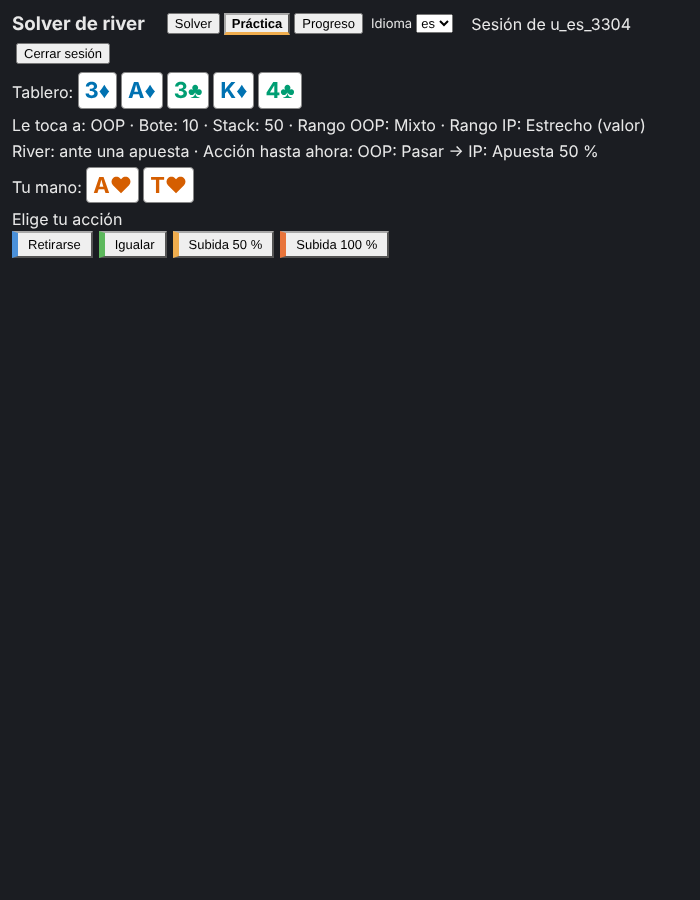
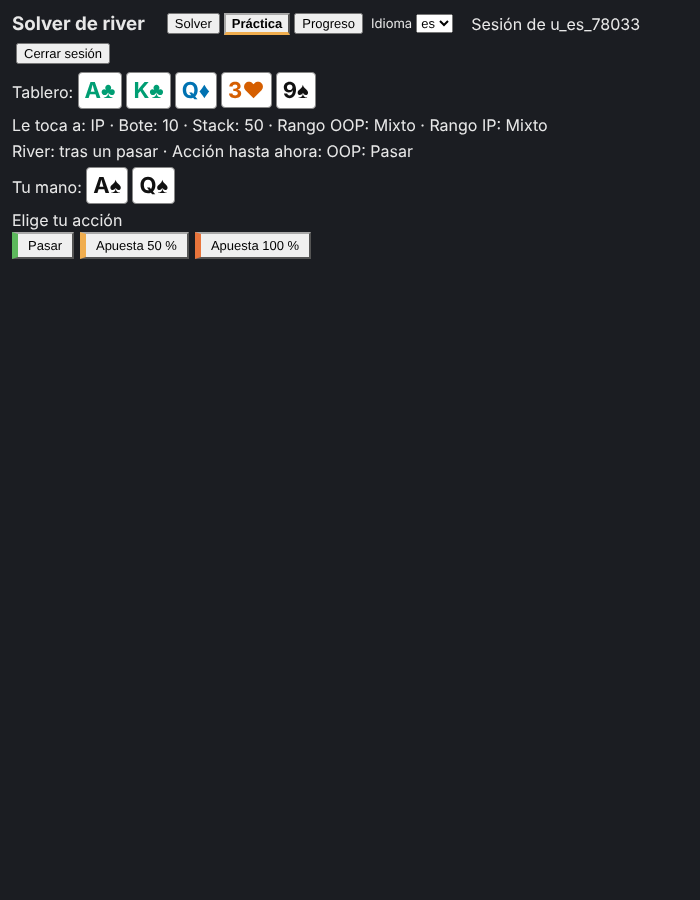
Turn drills in browser (small bet menu, cancel button); fix opp_mass on turn nodes so EV loss is correctly scaled
Claude-Session: https://claude.ai/code/session_01515mrjejBGv2Z99h5qqhGr

Changed region(s): [[0.0, 0.0622, 0.93, 0.3111], [0.84, 0.0, 0.9, 0.0311]]

diff --git a/web/src/main.ts b/web/src/main.ts
@@ -1,7 +1,7 @@
 import { t, fmt, locales, type Lang, type Key } from './i18n';
 import { parseRange, presets, R } from './ranges';
 import { api, ApiError, type Progress } from './api';
-import { combos, comboName, cardName, randomBoard, freqsFor, evLossPct, isCorrect, spotId, samplePath, nodeType, isFacing, type Step, type NodeType, SUITS, RANKS } from './drill';
+import { combos, comboName, cardName, randomBoard, freqsFor, evLossPct, isCorrect, spotId, samplePath, type Street, nodeType, isFacing, type Step, type NodeType, SUITS, RANKS } from './drill';
 
 // Bet sizes sent to the engine; labels derive from these (NodeView has no size info, so this assumes none are merged/dropped, e.g. at all-in).
 const sizes = [0.5, 1];
@@ -16,7 +16,7 @@ let user: string | null = null;
 let authErr = '';
 let progress: Progress | 'loading' | null = null;
 const drill = { phase: 'idle' as 'idle' | 'solving' | 'ask' | 'reveal', board: '', oop: '', ip: '', view: null as View | null, h: 0,
-  path: [] as number[], steps: [] as Step[], freqs: [] as number[], chosen: -1, evLoss: 0, t0: 0, correct: 0, total: 0, saveErr: '' };
+  path: [] as number[], steps: [] as Step[], freqs: [] as number[], chosen: -1, evLoss: 0, street: 'river' as Street, solveT0: 0, solveMs: 0, t0: 0, correct: 0, total: 0, saveErr: '' };
 
 let lang: Lang = (new URLSearchParams(location.search).get('lang') as Lang) in locales
   ? (new URLSearchParams(location.search).get('lang') as Lang) : 'en';
@@ -32,9 +32,9 @@ const form = { board: 'As Kd 7c 4h 2s', pot: 10, stack: 50, oop: 'mixed', ip: 'm
 const worker = new Worker(new URL('./worker.ts', import.meta.url), { type: 'module' });
 worker.onmessage = (e) => {
   const m = e.data;
-  if (m.type === 'progress') { expl = m.expl; iters = m.iters; if (owner === 'solver') { if (!view) query([]); renderStatus(); } }
+  if (m.type === 'progress') { expl = m.expl; iters = m.iters; if (owner === 'drill') renderDrillStatus(); if (owner === 'solver') { if (!view) query([]); renderStatus(); } }
   else if (m.type === 'done') {
-    if (owner === 'drill') { dealNode(); return; }
+    if (owner === 'drill') { drill.solveMs = Date.now() - drill.solveT0; console.log('drill solve ms', drill.solveMs, drill.street, 'expl', m.expl, 'iters', m.iters); dealNode(); return; }
     solving = false; expl = m.expl; iters = m.iters; query(path); render();
   }
   else if (m.type === 'node') {
@@ -151,19 +151,28 @@ const parseBoard = (b: string) => b.split(' ').map((x) => (RANKS.indexOf(x[0]) *
 function startDrill() {
   const ids = Object.keys(presets);
   const pick = () => ids[Math.floor(Math.random() * ids.length)];
-  Object.assign(drill, { phase: 'solving', board: randomBoard(), oop: pick(), ip: pick(), view: null, saveErr: '' });
-  owner = 'drill'; solving = false; err = '';
+  const turn = drill.street === 'turn';
+  Object.assign(drill, { phase: 'solving', board: randomBoard(Math.random, undefined, turn ? 4 : 5), oop: pick(), ip: pick(), view: null, saveErr: '', solveT0: Date.now() });
+  owner = 'drill'; solving = false; err = ''; expl = null; iters = 0;
+  // Turn: small menu (turn 50%/100% with no re-raise, river 50%) so the solve stays a few seconds; river drills unchanged.
+  const streets = turn ? [{ pot: DRILL.pot, stack: DRILL.stack, sizes, raise_cap: 1 }, { pot: DRILL.pot, stack: DRILL.stack, sizes: [0.5], raise_cap: 1 }]
+    : [{ pot: DRILL.pot, stack: DRILL.stack, sizes, raise_cap: 2 }];
   worker.postMessage({ type: 'solve', config: JSON.stringify({
     board: drill.board,
     ranges: [parseRange(presets[drill.oop]), parseRange(presets[drill.ip])],
-    streets: [{ pot: DRILL.pot, stack: DRILL.stack, sizes, raise_cap: 2 }],
+    streets,
     budget_mb: 1024,
-  }), chunk: 20, target: 0.3, maxIters: 2000 });
+  }), chunk: turn ? 10 : 20, target: 0.3, maxIters: turn ? 300 : 2000 });
   render();
 }
 
+function renderDrillStatus() {
+  const el = document.getElementById('drill-status');
+  if (el && expl !== null) el.innerHTML = `<b>${tr('exploitability')}:</b> <span id="drill-expl" data-value="${expl}">${fmt(expl / 100, lang, { style: 'percent', minimumFractionDigits: 2, maximumFractionDigits: 2 })} ${tr('pot')}</span> · ${tr('iterations', { count: iters })}`;
+}
+
 async function dealNode() {
-  const s = await samplePath(queryAsync, parseBoard(drill.board));
+  const s = await samplePath(queryAsync, parseBoard(drill.board)); // stops at chance nodes: turn drills never leave the turn street
   Object.assign(drill, { view: s.view, h: s.h, path: s.path, steps: s.steps, phase: 'ask', t0: Date.now() });
   if (screen === 'drill') render();
 }
@@ -182,7 +191,7 @@ function answer(i: number) {
   drill.total++; if (isCorrect(drill.freqs, i)) drill.correct++;
   drill.phase = 'reveal'; drill.saveErr = '';
   render();
-  api.postResult({ spotId: spotId(drill.board, drill.oop, drill.ip, nodeType(drill.steps), drill.path), hero: v.player, handCombo: comboName(drill.h), action: i,
+  api.postResult({ spotId: spotId(drill.board, drill.oop, drill.ip, nodeType(drill.steps), drill.path, drill.street), hero: v.player, handCombo: comboName(drill.h), action: i,
     solverFreqs: drill.freqs, evLoss: drill.evLoss, ms, lang }).catch((e) => {
     if (e instanceof ApiError && e.status === 401) { handleApiErr(e); return; }
     drill.saveErr = errText(codeOf(e)); const el = document.getElementById('save-err'); if (el) el.textContent = drill.saveErr;
@@ -194,15 +203,26 @@ function renderDrill() {
   const el = $('screen');
   const sessionLine = () => drill.total
     ? `<div id="session" data-correct="${drill.correct}" data-total="${drill.total}">${tr('drill.session', { correct: drill.correct, total: drill.total, pct: fmt(drill.correct / drill.total, lang, { style: 'percent' }) })}</div>` : '';
-  if (drill.phase === 'idle') { el.innerHTML = `<button id="start" class="a">${tr('drill.start')}</button>${sessionLine()}<div class="err">${err ? tr('error', { message: err }) : ''}</div>`; $('start').onclick = startDrill; return; }
-  if (drill.phase === 'solving') { el.innerHTML = `<p id="drill-solving">${tr('drill.solving')}</p>${sessionLine()}`; return; }
+  if (drill.phase === 'idle') {
+    el.innerHTML = `<label>${tr('drill.street')}<select id="street">${(['river', 'turn'] as const).map((s) => `<option value="${s}" ${s === drill.street ? 'selected' : ''}>${tr(('street.' + s) as Key)}</option>`).join('')}</select></label>
+      <button id="start" class="a">${tr('drill.start')}</button>${sessionLine()}<div class="err">${err ? tr('error', { message: err }) : ''}</div>`;
+    $('start').onclick = startDrill;
+    $<HTMLSelectElement>('street').onchange = (e) => { drill.street = (e.target as HTMLSelectElement).value as Street; };
+    return;
+  }
+  if (drill.phase === 'solving') {
+    el.innerHTML = `<p id="drill-solving">${tr('drill.solving')}</p><div id="drill-status"></div><button id="cancel" class="a">${tr('drill.cancel')}</button>${sessionLine()}`;
+    $('cancel').onclick = () => { worker.postMessage({ type: 'cancel' }); drill.phase = 'idle'; render(); };
+    renderDrillStatus();
+    return;
+  }
   const v = drill.view!;
   const [c1, c2] = combos[drill.h];
   const as = actions(v, isFacing(drill.steps));
   const nt = nodeType(drill.steps);
   const head = `<div>${tr('board')}: <span id="board-cards">${parseBoard(drill.board).map(cardHtml).join('')}</span></div>
     <div style="margin:6px 0">${tr('toAct', { player: tr(('player.' + v.player) as Key) })} · ${tr('pot')}: ${fmt(DRILL.pot, lang)} · ${tr('stack')}: ${fmt(DRILL.stack, lang)} · ${tr('oop')}: ${tr(('preset.' + drill.oop) as Key)} · ${tr('ip')}: ${tr(('preset.' + drill.ip) as Key)}</div>
-    <div id="history" data-node="${nt}" data-depth="${drill.steps.length}" style="margin:6px 0">${tr(('progress.spot.river:' + nt) as Key)} · ${tr('drill.history')}: ${drill.steps.length ? drill.steps.map(stepLabel).join(' → ') : tr('drill.noHistory')}</div>
+    <div id="history" data-street="${drill.street}" data-solve-ms="${drill.solveMs}" data-node="${nt}" data-depth="${drill.steps.length}" style="margin:6px 0">${tr(('progress.spot.' + drill.street + ':' + nt) as Key)} · ${tr('drill.history')}: ${drill.steps.length ? drill.steps.map(stepLabel).join(' → ') : tr('drill.noHistory')}</div>
     <div style="margin:6px 0">${tr('drill.yourHand')}: <span id="hand" data-combo="${comboName(drill.h)}">${[c2, c1].sort((a, b) => (b >> 2) - (a >> 2)).map(cardHtml).join('')}</span></div>`;
   if (drill.phase === 'ask') {
     el.innerHTML = `${head}<div>${tr('drill.choose')}</div><div id="acts">${as.map((a, i) => `<button class="a" data-a="${i}" style="border-left:6px solid ${a.color}">${tr(a.key, a.vars)}</button>`).join('')}</div>${sessionLine()}`;

diff --git a/web/tests/drill.test.ts b/web/tests/drill.test.ts
@@ -123,3 +123,35 @@ test('real engine: sampled non-root nodes are valid and consistent', async () =>
   console.log('node types sampled:', [...types]);
   expect(types.size).toBeGreaterThan(1);
 });
+
+test('turn: 4-card boards and turn spot ids', () => {
+  for (let i = 0; i < 50; i++) expect(new Set(randomBoard(Math.random, undefined, 4).split(' ')).size).toBe(4);
+  expect(spotId('As Kd 7c 4h', 'a', 'b', 'root', [], 'turn')).toBe('turn:root:AsKd7c4h:a-b:root');
+});
+
+test('real engine turn tree: sampler stops at chance nodes, never passes through the river card, masks board', async () => {
+  await init({ module_or_path: readFileSync(new URL('../src/wasm/gto_wasm_bg.wasm', import.meta.url)) });
+  const s = new Solver(JSON.stringify({ board: 'As Kd 7c 4h', ranges: [parseRange(presets.mixed), parseRange(presets.mixed)],
+    streets: [{ pot: 10, stack: 50, sizes: [0.5, 1], raise_cap: 1 }, { pot: 10, stack: 50, sizes: [0.5], raise_cap: 1 }], budget_mb: 1024 }));
+  s.step(30);
+  const kinds: string[] = [];
+  const q = async (p: number[]) => { const v = JSON.parse(s.query(JSON.stringify(p))); kinds.push(v.kind); return v; };
+  expect(JSON.parse(s.query('[0,0]')).kind).toBe('chance'); // check-check deals the river
+  const board = [51, 46, 21, 14];
+  const rng = lcg(21), types = new Set<string>();
+  for (let i = 0; i < 80; i++) {
+    const r = await samplePath(q, board, rng, 0.3);
+    types.add(nodeType(r.steps));
+    expect(r.view.kind).toBe('action');
+    expect(r.path.length).toBe(r.steps.length); // only action indices: no card id, so no river street
+    // every prefix of the path is an action node (a chance node would mean the walk crossed into the river)
+    for (let d = 0; d < r.path.length; d++) expect(JSON.parse(s.query(JSON.stringify(r.path.slice(0, d + 1)))).kind === 'action' || d === r.path.length - 1).toBe(true);
+    expect(combos[r.h].some((c) => board.includes(c))).toBe(false);
+    expect(r.view.range[r.h]).toBeGreaterThan(0);
+    const losses = freqsFor(r.view.strategy, r.view.n, r.h).map((_, k) => evLossPct(r.view.action_ev, r.view.opp_mass, r.view.n, r.h, k, 10));
+    expect(Math.min(...losses)).toBe(0);
+    expect(Math.max(...losses)).toBeLessThan(700); // chips per unit deal (opp_mass counts river deals): bounded by pot+stack = 60 chips
+  }
+  expect(kinds).toContain('chance'); // walks did hit chance nodes and stopped there
+  expect(types.size).toBeGreaterThan(1);
+}, 60000);

diff --git a/web/src/drill.ts b/web/src/drill.ts
@@ -14,11 +14,12 @@ export function comboName(h: number): string {
 
 export const presetBoards = ['As Kd 7c 4h 2s', 'Qh Jh 5d 5c 2s', 'Td 9d 8s 3c Ah', '7s 7d 2c Kh 9c', 'Jc 8h 4d Ts 6h', 'Ac Kc Qd 3h 9s'];
 
-export function randomBoard(rng: () => number = Math.random, presets = presetBoards): string {
-  if (rng() < 0.5) return presets[Math.floor(rng() * presets.length)];
+/** `len` = 5 (river) or 4 (turn: first four cards of a preset / random). */
+export function randomBoard(rng: () => number = Math.random, presets = presetBoards, len = 5): string {
+  if (rng() < 0.5) return presets[Math.floor(rng() * presets.length)].split(' ').slice(0, len).join(' ');
   const deck = Array.from({ length: 52 }, (_, i) => i);
   const out: string[] = [];
-  for (let i = 0; i < 5; i++) out.push(cardName(deck.splice(Math.floor(rng() * deck.length), 1)[0]));
+  for (let i = 0; i < len; i++) out.push(cardName(deck.splice(Math.floor(rng() * deck.length), 1)[0]));
   return out.join(' ');
 }
 
@@ -100,5 +101,6 @@ export async function samplePath<V extends NodeLike>(query: (path: number[]) => 
   return { path, steps, view, h: sampleHand(maskBoard(view.range, board), rng) };
 }
 
-export const spotId = (board: string, oop: string, ip: string, type: NodeType = 'root', path: number[] = []) =>
-  `river:${type}:${board.replace(/\s+/g, '')}:${oop}-${ip}:${path.join('.') || 'root'}`;
+export type Street = 'river' | 'turn';
+export const spotId = (board: string, oop: string, ip: string, type: NodeType = 'root', path: number[] = [], street: Street = 'river') =>
+  `${street}:${type}:${board.replace(/\s+/g, '')}:${oop}-${ip}:${path.join('.') || 'root'}`;

diff --git a/web/src/worker.ts b/web/src/worker.ts
@@ -21,6 +21,7 @@ self.onmessage = async (e: MessageEvent) => {
         await new Promise((r) => setTimeout(r, 0)); // let new messages in
       }
       if (id === run) post({ type: 'done', expl, iters });
+    } else if (m.type === 'cancel') { run++;
     } else if (m.type === 'query' && solver) {
       post({ type: 'node', path: m.path, view: JSON.parse(solver.query(JSON.stringify(m.path))) });
     }

diff --git a/engine/river/src/street.rs b/engine/river/src/street.rs
@@ -444,6 +444,9 @@ pub struct StreetSolver {
     w: [Vec<f32>; 2],
     norm: f32,
     pot: f32,
+    /// Board cards (bitmask) and number of chance streets below the root.
+    dead0: u64,
+    left0: usize,
     regret: Arr,
     sum: Arr,
     params: Params,
@@ -499,7 +502,7 @@ impl StreetSolver {
             nodes, children, chances, boards, bmaps, root, card_hands: (0..52u8).map(|c| (0..H as u16).filter(|&h| { let (a, b) = cb[h as usize]; a == c || b == c }).collect()).collect(),
             ident: (0..H as u16).collect(),
             ident_rounds: (0..H as u16).map(|h| (h, h)).collect(),
-            combos: cb, hmap: hm, w, norm: 1.0, pot: cfg.streets[0].pot,
+            combos: cb, hmap: hm, w, norm: 1.0, pot: cfg.streets[0].pot, dead0: cfg.board.iter().fold(0u64, |d, &c| d | 1 << c), left0: cfg.streets.len() - 1,
             regret: Arr::new(data_len, n_nodes, cfg.compress), sum: Arr::new(data_len, n_nodes, cfg.compress),
             params: Params::dcfr(), iters: 0,
         };
@@ -919,12 +922,33 @@ impl StreetSolver {
         self.br(self.root as usize, p, &self.w[1 - p], false)
     }
 
+    /// Per-combo total opponent weight compatible with the combo, summed over all deals of the `left`
+    /// remaining chance cards (same weighting as `br` / `norm`), so `ev / opp_mass` is chips per unit deal.
+    fn opp_mass_rec(&self, opp: &[f32], dead: u64, left: usize) -> Vec<f32> {
+        if left == 0 {
+            let mut cs = [0.0f32; 52];
+            let mut tot = 0.0;
+            for (&(a, b), &o) in self.combos.iter().zip(opp) { cs[a as usize] += o; cs[b as usize] += o; tot += o; }
+            return self.combos.iter().zip(opp).map(|(&(a, b), &o)| tot - cs[a as usize] - cs[b as usize] + o).collect();
+        }
+        let mut out = vec![0.0f32; H];
+        for c in (0..52u8).filter(|&c| dead >> c & 1 == 0) {
+            let sub = self.opp_mass_rec(&self.mask(opp, c), dead | 1 << c, left - 1);
+            for h in 0..H {
+                let (a, b) = self.combos[h];
+                if a != c && b != c { out[h] += sub[h]; }
+            }
+        }
+        out
+    }
+
     /// Average-strategy view of the node reached by `path`: an action index at Action nodes,
     /// a (canonical) card at Chance nodes. `ev` is the acting player's per-combo value in raw
     /// chips under the average strategy, weighted by the opponent's reach (not renormalized).
     pub fn query(&self, path: &[u32]) -> Result<NodeView, String> {
         let mut id = self.root as usize;
         let mut reach = self.w.clone();
+        let (mut dead, mut left) = (self.dead0, self.left0);
         for &x in path {
             let nd = &self.nodes[id];
             match nd.kind {
@@ -949,6 +973,7 @@ impl StreetSolver {
                     for r in reach.iter_mut() {
                         *r = self.mask(r, o.card);
                     }
+                    dead |= 1 << o.card; left -= 1;
                     id = o.child as usize;
                 }
                 _ => return Err("path goes past a terminal node".into()),
@@ -965,10 +990,7 @@ impl StreetSolver {
                 let kids = &self.children[nd.child_off as usize..nd.child_off as usize + n];
                 let action_ev: Vec<f32> = kids.iter().flat_map(|&k| self.br(k as usize, q, &reach[1 - q], false)).collect();
                 let opp = &reach[1 - q];
-                let mut cs = [0.0f32; 52];
-                let mut tot = 0.0;
-                for (&(a, b), &o) in self.combos.iter().zip(opp) { cs[a as usize] += o; cs[b as usize] += o; tot += o; }
-                let opp_mass: Vec<f32> = self.combos.iter().zip(opp).map(|(&(a, b), &o)| tot - cs[a as usize] - cs[b as usize] + o).collect();
+                let opp_mass = self.opp_mass_rec(opp, dead, left);
                 NodeView { kind: "action".to_string(), player: nd.player, n, cards: vec![], strategy: self.expand(nd, normalize(&s, n, w)),
                     ev: self.br(id, q, &reach[1 - q], false), range: reach[q].clone(), action_ev, opp_mass }
             }

diff --git a/docs/glossary.md b/docs/glossary.md
@@ -12,6 +12,9 @@
 | range | rango | range |
 | board | tablero | board |
 | river | river | river |
+| turn | turn | turn |
+| street | calle | street |
+| cancel | cancelar | annulla |
 | exploitability | explotabilidad | sfruttabilità |
 | OOP / IP | OOP / IP | OOP / IP |
 | drill | práctica | esercizio |
